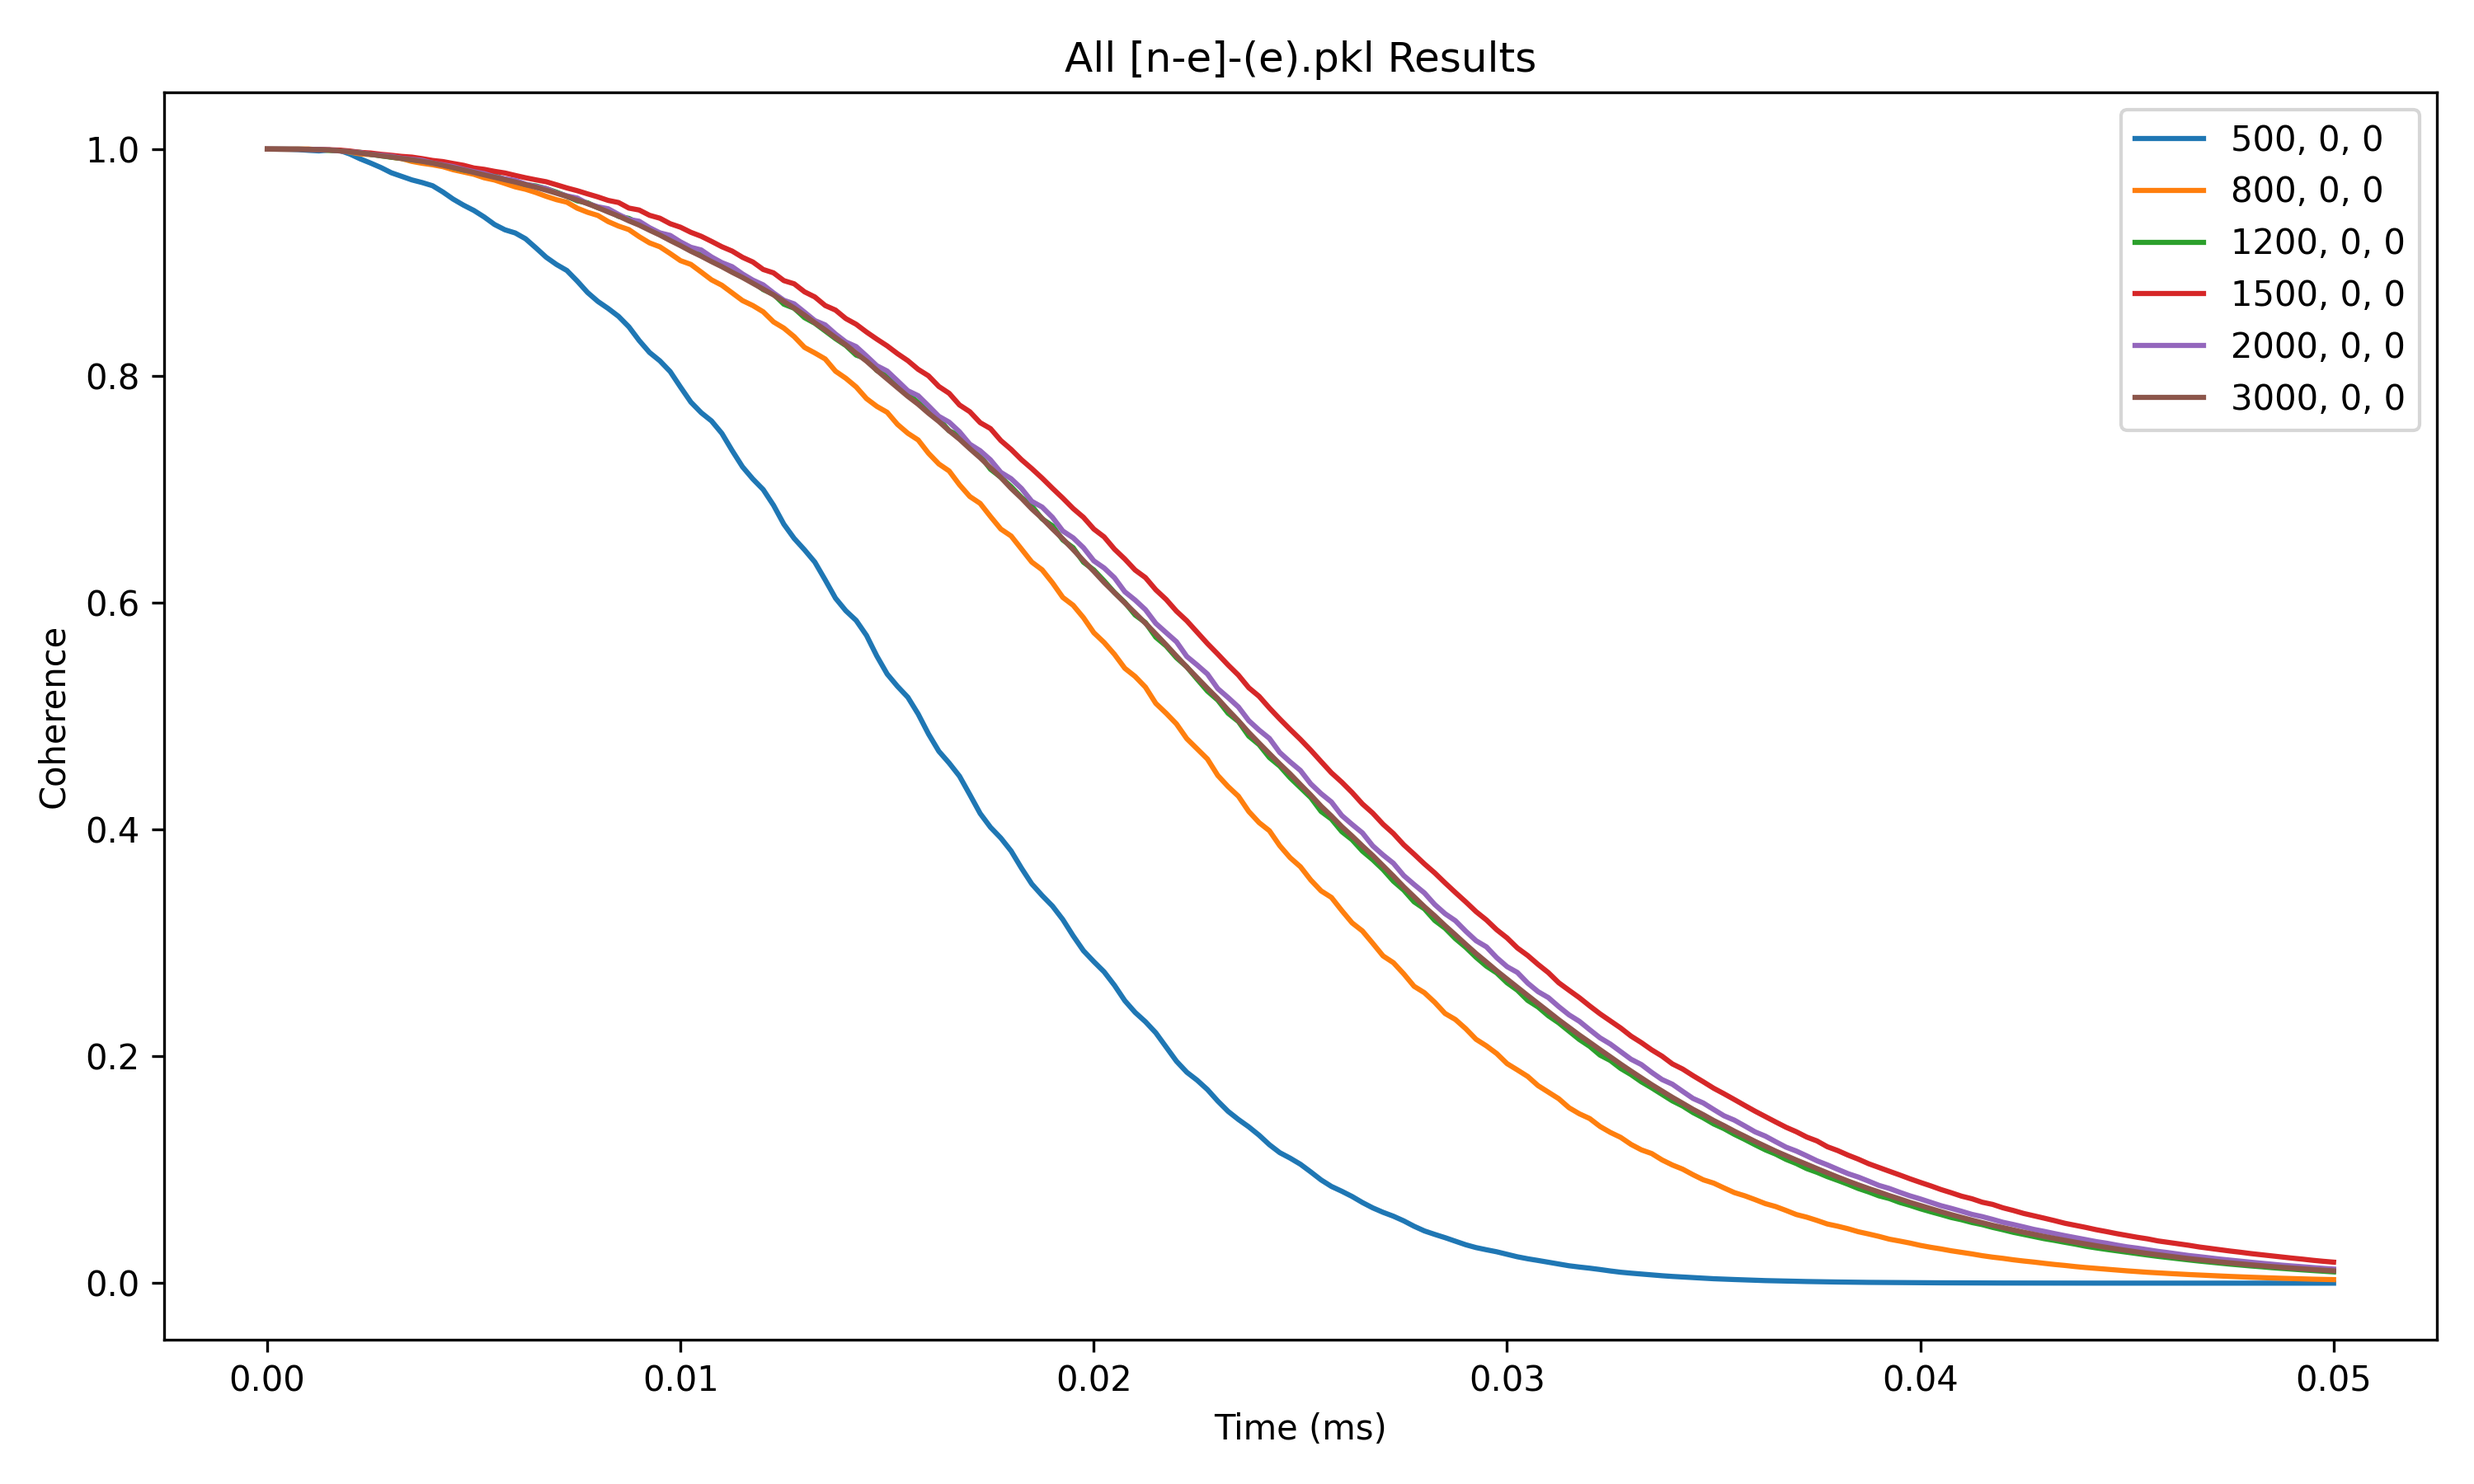
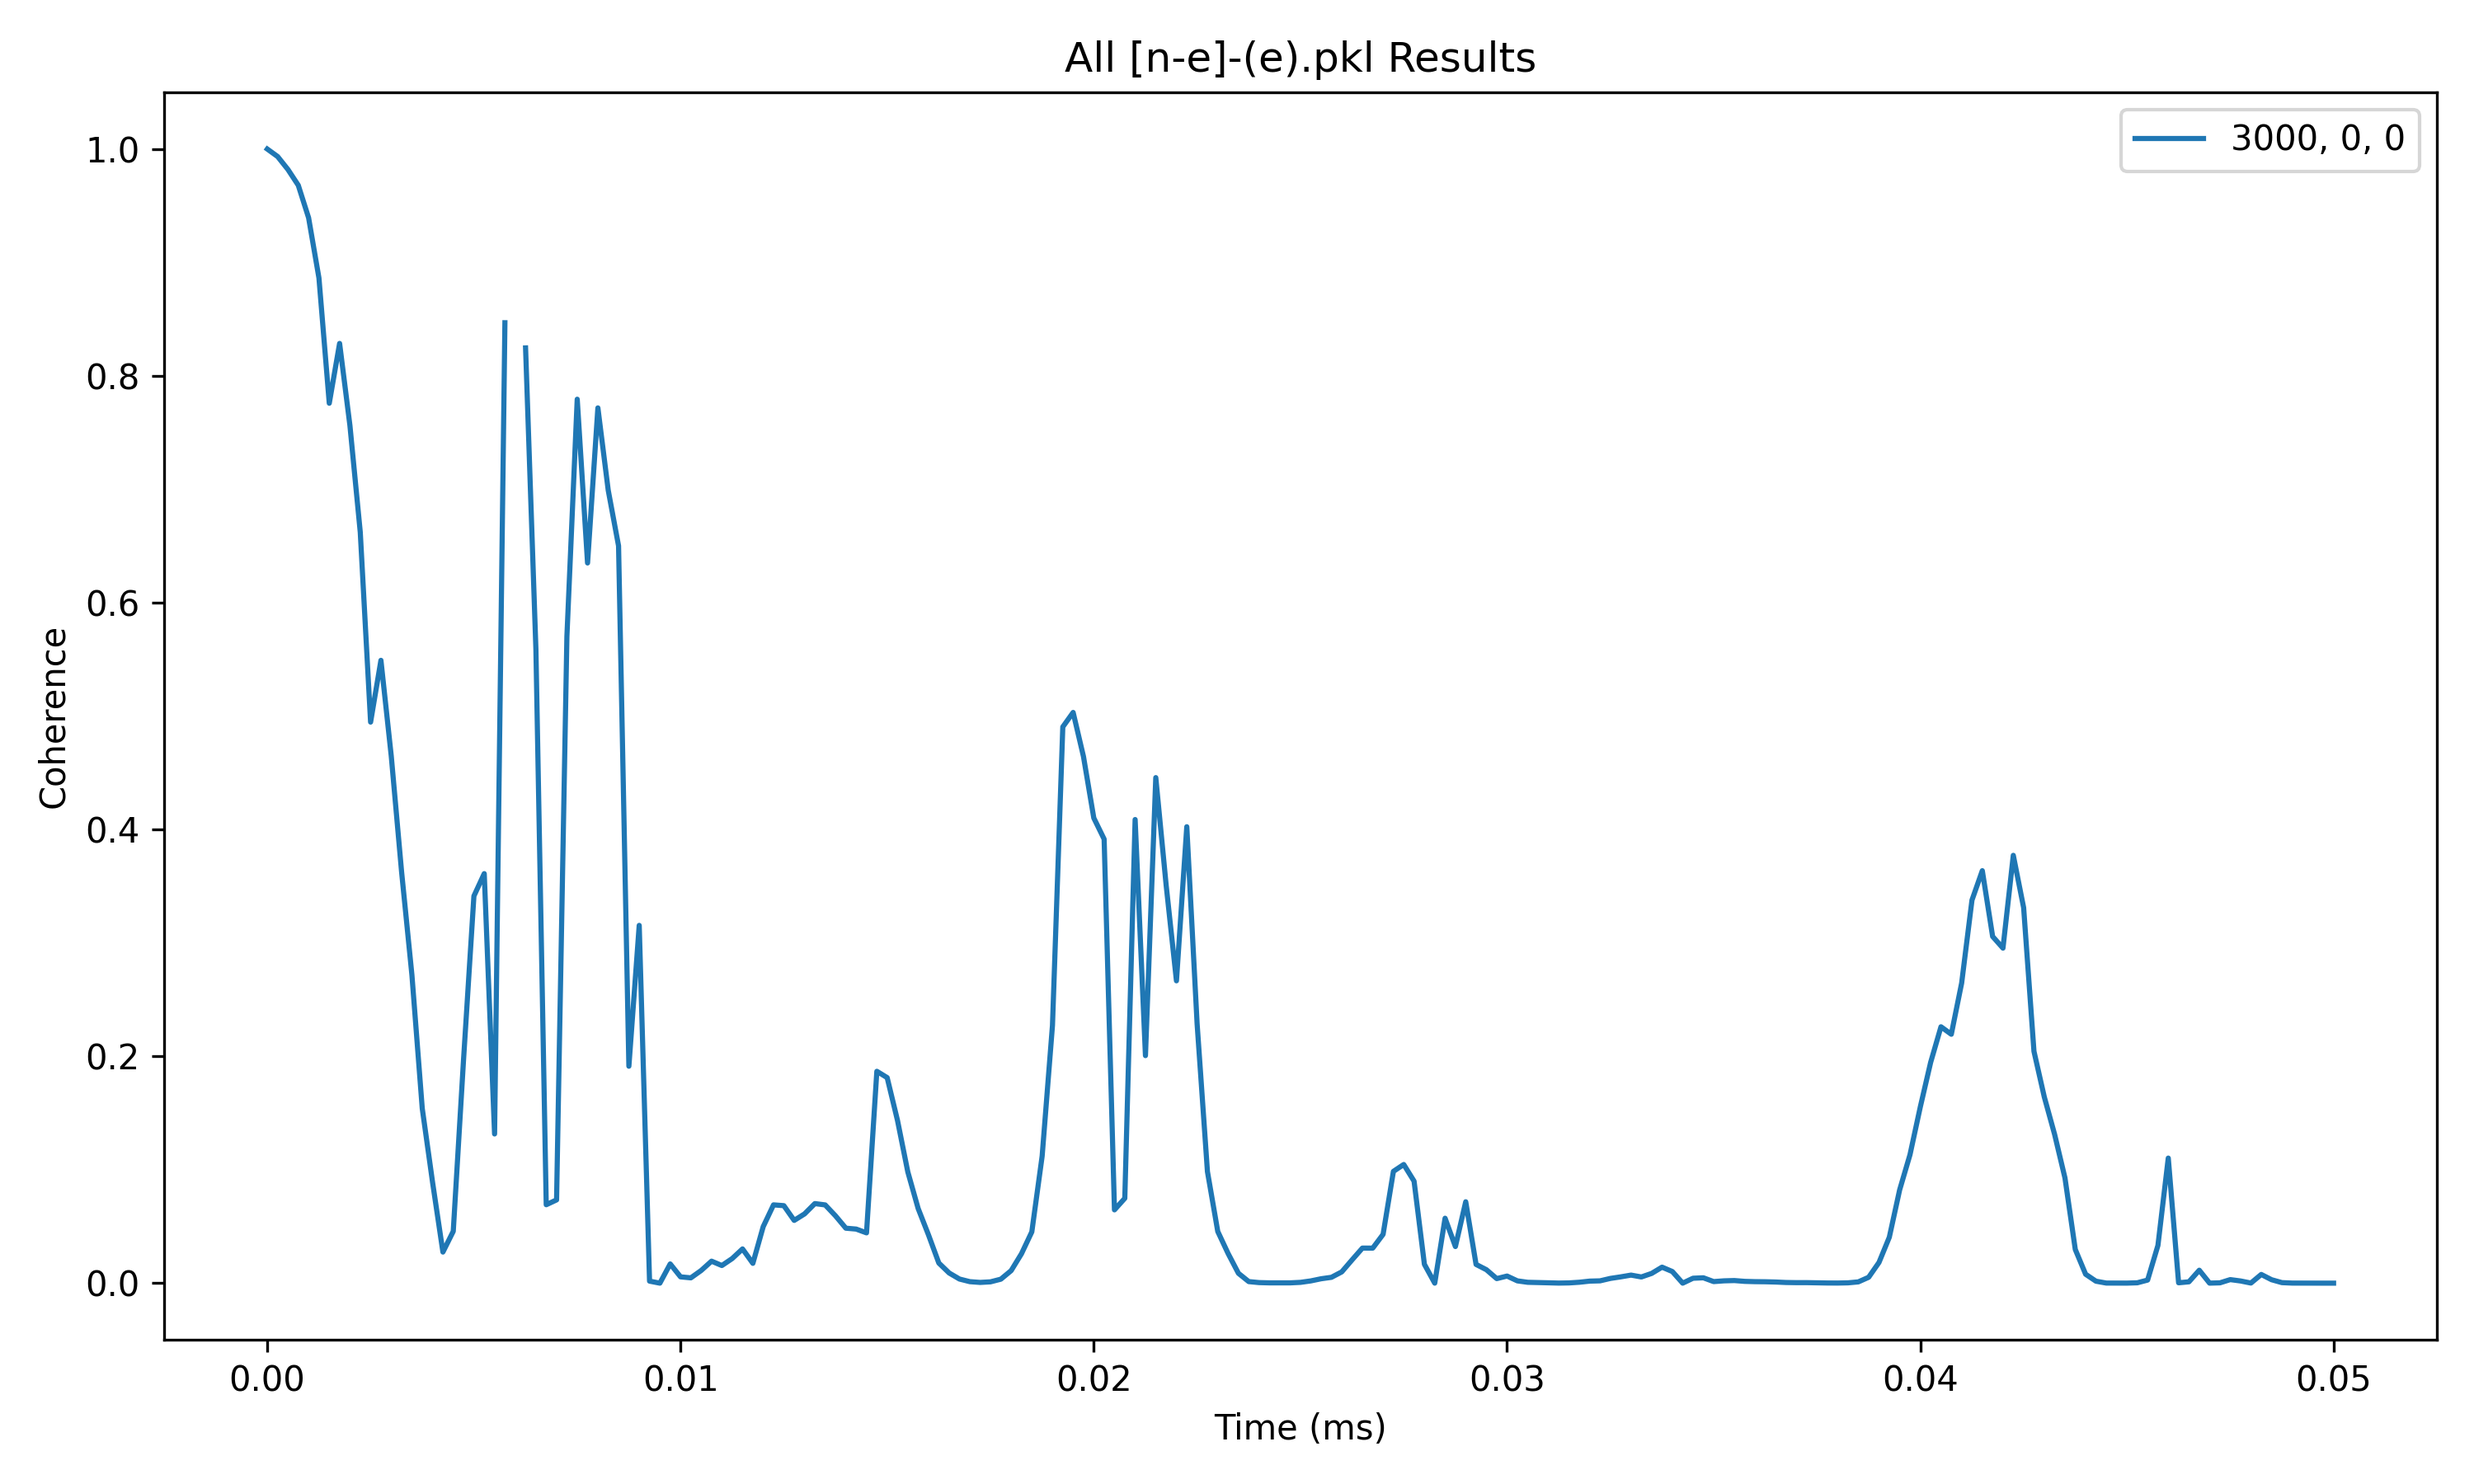
AB3 order3 with nbstates=100, calc time=600s

diff --git a/VOTPP folder/VOTPP_[n-e]-(e).py b/VOTPP folder/VOTPP_[n-e]-(e).py
@@ -194,7 +194,7 @@ default_calc_parameters = {
     'timespace': timespace_absolute, # 7e-2
     'method': 'gcce',
     'pulses': hahn_echo_sequence,
-    'nbstates': 200, #!
+    'nbstates': 10, #!
     'quantity': 'coherence',
     'parallel': True,
     'parallel_states': True,
@@ -238,45 +238,45 @@ magnetic_field_list = [[3000,0,0]]
 
 #     # default_bath_parameters['r_bath'] = r_bath_conc_list[idx]
 # # seed_list = [8000, 9000, 10000, 11000,]
-# seed_list = [8000,]
-# magnetic_results = {}
-# for idx, seed in enumerate(seed_list):
-#     # Change the value of the seed in the default parameters
-#     default_bath_parameters['seed'] = seed # !!!!!!!!!!!!!!!!!!!!!!!!!!!!!!!!!!!!!!!!!!!!!!!!!!!!!!!!!!!!!!!!!!!!!!
-#     if rank == 0:
-#         print("Seed: {}".format(seed)) #!!!!!!!!!!!!!!!!!!!!!!!!!!!!!!!!!!!!!!!!!!!!!!!!!!!!!!!!!!!!!!!!!!!!!!
+seed_list = [8000,]
+magnetic_results = {}
+for idx, seed in enumerate(seed_list):
+    # Change the value of the seed in the default parameters
+    default_bath_parameters['seed'] = seed # !!!!!!!!!!!!!!!!!!!!!!!!!!!!!!!!!!!!!!!!!!!!!!!!!!!!!!!!!!!!!!!!!!!!!!
+    if rank == 0:
+        print("Seed: {}".format(seed)) #!!!!!!!!!!!!!!!!!!!!!!!!!!!!!!!!!!!!!!!!!!!!!!!!!!!!!!!!!!!!!!!!!!!!!!
 
-#         # Start timer
-#         start = time.time()
+        # Start timer
+        start = time.time()
 
-#     # # Change the value of the r_bath in the default parameters
-#     # default_simulator_parameters['r_bath'] = r_bath_conc_list[idx]
+    # # Change the value of the r_bath in the default parameters
+    # default_simulator_parameters['r_bath'] = r_bath_conc_list[idx]
 
 
 
-#     magnetic_results[seed] = runner(
-#                         concentration_value=default_bath_parameters['concentration'],
-#                         # concentration_value=seed, # !!!!!!!!!!!!!!!!!!!!!!!!!!!!!!!!!!!!!!!!!!!!!!!!!!!!!!!!!!!!!!!!!!!!!!
-#                         changing_variable='magnetic_field', variable_values=magnetic_field_list,
-#                         num_spins=2, # spin_type='nuclear',
-#                         alpha = 4, #
-#                         beta = 5, #
-#                         bath_parameters=default_bath_parameters, simulator_parameters=default_simulator_parameters, calc_parameters=default_calc_parameters,
-#                         # changing_variable2='r_bath', variable_values2=r_bath_conc_list,
-#                         )
+    magnetic_results[seed] = runner(
+                        concentration_value=default_bath_parameters['concentration'],
+                        # concentration_value=seed, # !!!!!!!!!!!!!!!!!!!!!!!!!!!!!!!!!!!!!!!!!!!!!!!!!!!!!!!!!!!!!!!!!!!!!!
+                        changing_variable='magnetic_field', variable_values=magnetic_field_list,
+                        num_spins=2, # spin_type='nuclear',
+                        alpha = 4, #
+                        beta = 5, #
+                        bath_parameters=default_bath_parameters, simulator_parameters=default_simulator_parameters, calc_parameters=default_calc_parameters,
+                        # changing_variable2='r_bath', variable_values2=r_bath_conc_list,
+                        )
     
-#     if rank == 0:
-#         # Print time
-#         end = time.time()
-#         print("Time taken: {} seconds".format(end - start))
+    if rank == 0:
+        # Print time
+        end = time.time()
+        print("Time taken: {} seconds".format(end - start))
 
-#     # Save the current state of results
-#     with open((str(path) + f'magnetic_results_{idx}.pkl'), 'wb') as f:
-#         pickle.dump(magnetic_results, f)
+    # Save the current state of results
+    with open((str(path) + f'magnetic_results_{idx}.pkl'), 'wb') as f:
+        pickle.dump(magnetic_results, f)
 
-# if rank == 0:
-#     with open((str(path) + '[n-e]-(e).pkl'), 'wb') as f:
-#         pickle.dump(magnetic_results, f)
+if rank == 0:
+    with open((str(path) + '[n-e]-(e).pkl'), 'wb') as f:
+        pickle.dump(magnetic_results, f)
 
 #####################################################################
 
@@ -310,69 +310,69 @@ magnetic_field_list = [[3000,0,0]]
     
 # print("Order results done")
 
-r_bath_results = {}
-for idx, conc in enumerate(concentration_list):
-    if rank == 0:
-        # Start timer
-        start = time.time()
+# r_bath_results = {}
+# for idx, conc in enumerate(concentration_list):
+#     if rank == 0:
+#         # Start timer
+#         start = time.time()
 
-    r_bath_results[conc] = runner(
-                        concentration_value=conc,
-                        changing_variable='r_bath', variable_values=r_bath_list,
-                        num_spins=2, #spin_type='nuclear',
-                        alpha= 4,
-                        beta=  5,
-                        bath_parameters=default_bath_parameters, simulator_parameters=default_simulator_parameters, calc_parameters=default_calc_parameters,
-                        # changing_variable2='timespace', variable_values2=timespace_list,
-                        )
+#     r_bath_results[conc] = runner(
+#                         concentration_value=conc,
+#                         changing_variable='r_bath', variable_values=r_bath_list,
+#                         num_spins=2, #spin_type='nuclear',
+#                         alpha= 4,
+#                         beta=  5,
+#                         bath_parameters=default_bath_parameters, simulator_parameters=default_simulator_parameters, calc_parameters=default_calc_parameters,
+#                         # changing_variable2='timespace', variable_values2=timespace_list,
+#                         )
     
-    if rank == 0:
-        # Print time
-        end = time.time()
-        print("Time taken: {} seconds".format(end - start))
+#     if rank == 0:
+#         # Print time
+#         end = time.time()
+#         print("Time taken: {} seconds".format(end - start))
     
-    # Save the current state of results
-    with open((str(path) + f'r_bath_results_{idx}.pkl'), 'wb') as f:
-        pickle.dump(r_bath_results, f)
+#     # Save the current state of results
+#     with open((str(path) + f'r_bath_results_{idx}.pkl'), 'wb') as f:
+#         pickle.dump(r_bath_results, f)
 
-if rank == 0:
-    with open((str(path) + '[n-e]-(e)_r_bath_order2_results.pkl'), 'wb') as f:
-        pickle.dump(r_bath_results, f)
+# if rank == 0:
+#     with open((str(path) + '[n-e]-(e)_r_bath_order2_results.pkl'), 'wb') as f:
+#         pickle.dump(r_bath_results, f)
 
-    print("r_bath results done")
+#     print("r_bath results done")
         
 
 
 
-r_dipole_results = {}
-for idx, conc in enumerate(concentration_list):
-    if rank == 0:
-        # Start timer
-        start = time.time()
+# r_dipole_results = {}
+# for idx, conc in enumerate(concentration_list):
+#     if rank == 0:
+#         # Start timer
+#         start = time.time()
 
-    r_dipole_results[conc] = runner(concentration_value=conc,
-                        changing_variable='r_dipole', variable_values=r_dipole_list,
-                        num_spins=2, #spin_type='nuclear',
-                        alpha= 4,
-                        beta=  5,
-                        bath_parameters=default_bath_parameters, simulator_parameters=default_simulator_parameters, calc_parameters=default_calc_parameters,
-                        # changing_variable2='timespace', variable_values2=timespace_list,
-                        )
+#     r_dipole_results[conc] = runner(concentration_value=conc,
+#                         changing_variable='r_dipole', variable_values=r_dipole_list,
+#                         num_spins=2, #spin_type='nuclear',
+#                         alpha= 4,
+#                         beta=  5,
+#                         bath_parameters=default_bath_parameters, simulator_parameters=default_simulator_parameters, calc_parameters=default_calc_parameters,
+#                         # changing_variable2='timespace', variable_values2=timespace_list,
+#                         )
     
-    if rank == 0:
-        # Print time
-        end = time.time()
-        print("Time taken: {} seconds".format(end - start))
+#     if rank == 0:
+#         # Print time
+#         end = time.time()
+#         print("Time taken: {} seconds".format(end - start))
 
-    # Save the current state of results
-    with open((str(path) + f'r_dipole_results_{idx}.pkl'), 'wb') as f:
-        pickle.dump(r_dipole_results, f)
+#     # Save the current state of results
+#     with open((str(path) + f'r_dipole_results_{idx}.pkl'), 'wb') as f:
+#         pickle.dump(r_dipole_results, f)
 
-if rank == 0:
-    with open((str(path) + '[n-e]-(e)_r_dipole_order2_results.pkl'), 'wb') as f:
-        pickle.dump(r_dipole_results, f)
+# if rank == 0:
+#     with open((str(path) + '[n-e]-(e)_r_dipole_order2_results.pkl'), 'wb') as f:
+#         pickle.dump(r_dipole_results, f)
 
-    print("r_dipole results done")
+#     print("r_dipole results done")
 
 
 #####################################################################

diff --git a/VOTPP folder/VOTPP_results_and_fit_plotter.py b/VOTPP folder/VOTPP_results_and_fit_plotter.py
@@ -282,14 +282,14 @@ def plot_from_file_average(pickle_filenames, data_range=slice(None), ylim=None):
 # plot_from_file(['magnetic_results_[n-e]_e_N_trans.pkl',]) #!!!!
 
 # plot_from_file(['magnetic_results_[n-e]_e_E_trans.pkl',])
-# plot_from_file(['[n-e]-(e).pkl',])#, data_range=slice(0, 225), )
+plot_from_file(['[n-e]-(e).pkl',])#, data_range=slice(0, 225), )
 # plot_from_file(['[n-e]-(n).pkl',])
 # plot_from_file(['magnetic_results_9.pkl'])
 # plot_from_file(['[n-e]-(e)_r_dipole_results.pkl'])
 # plot_from_file(['[n-e]-(e)_r_dipole_order3_results.pkl'])
 # plot_from_file(['[n-e]-(e)_r_bath_order3_results.pkl'])
 # plot_from_file(['[n-e]-(e)_r_dipole_order2_results.pkl'])
-plot_from_file(['[n-e]-(e)_r_bath_order2_results.pkl'])
+# plot_from_file(['[n-e]-(e)_r_bath_order2_results.pkl'])
 
 # plot_from_file(['[n-e]-(e)_r_bath_results.pkl'])
 # plot_from_file_average(['[n-e]-(e).pkl'])
